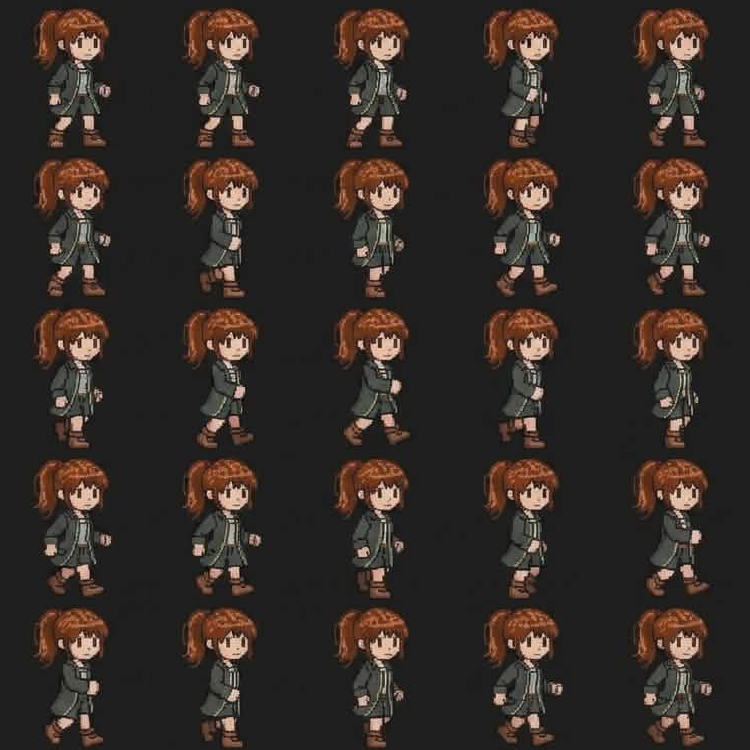
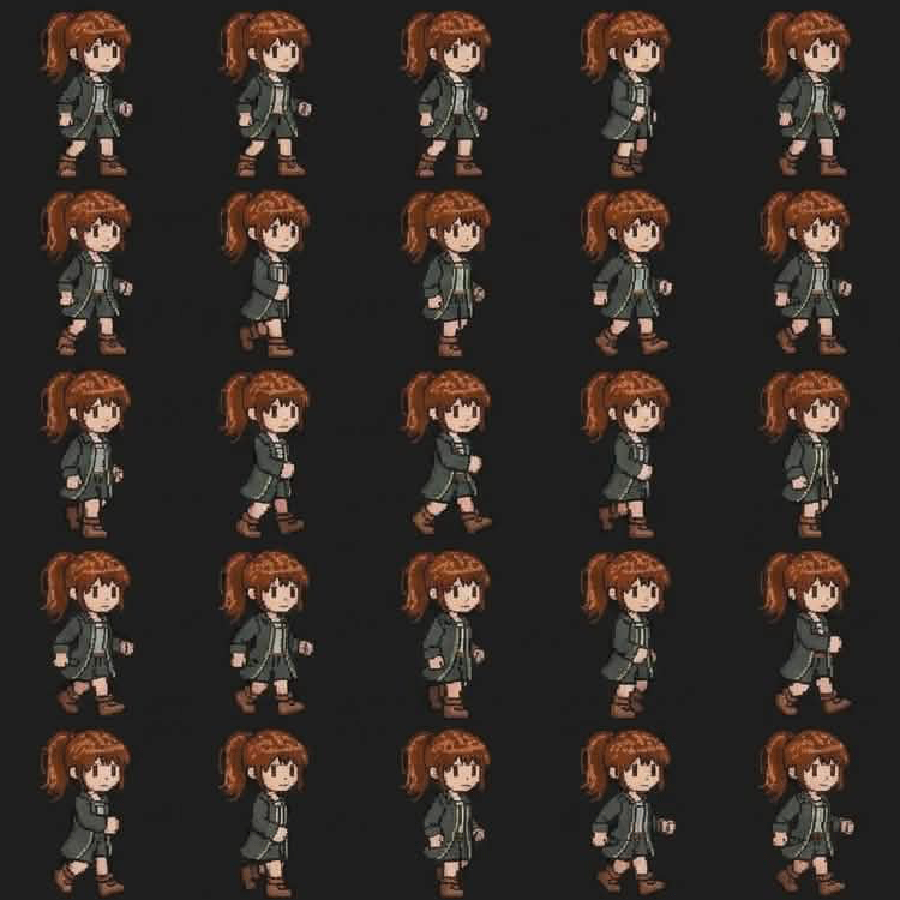
added player 2

diff --git a/main.py b/main.py
@@ -39,6 +39,8 @@ def main():
     assets.cache["game_font"] = game_font
 
     assets.load("Assets/Characters/player_walk.png", (40, 40))
+    assets.load("Assets/Characters/player_idle.png", (40, 40))
+    assets.load("Assets/Characters/player_walk2.png", (40, 40))
     assets.load("Assets/Characters/girl_char.png", (40, 40))
     assets.load("Assets/Characters/boy_char.png", (40, 40))
 

diff --git a/ch1_lvl1.py b/ch1_lvl1.py
@@ -6,6 +6,7 @@ from ui_layer import UILayer
 
 # --- Filenames ---
 WALK_FILE = "Assets/CHARACTERS/player_walk.png"
+WALK2_FILE = "Assets/CHARACTERS/player_walk2.png"
 IDLE_FILE = "Assets/CHARACTERS/player_idle.png"
 BG_FILE = "Assets/Maps/chapter1/level1/ch1_lvl1.png"
 

diff --git a/ch1_lvl1_template.py b/ch1_lvl1_template.py
@@ -6,6 +6,7 @@ from ui_layer import UILayer
 
 # --- Filenames ---
 WALK_FILE = "Assets/CHARACTERS/player_walk.png"
+WALK2_FILE = "Assets/CHARACTERS/player_walk2.png"
 IDLE_FILE = "Assets/CHARACTERS/player_idle.png"
 BG_FILE = "Assets/Maps/chapter1/level1/ch1_lvl1.png"
 
